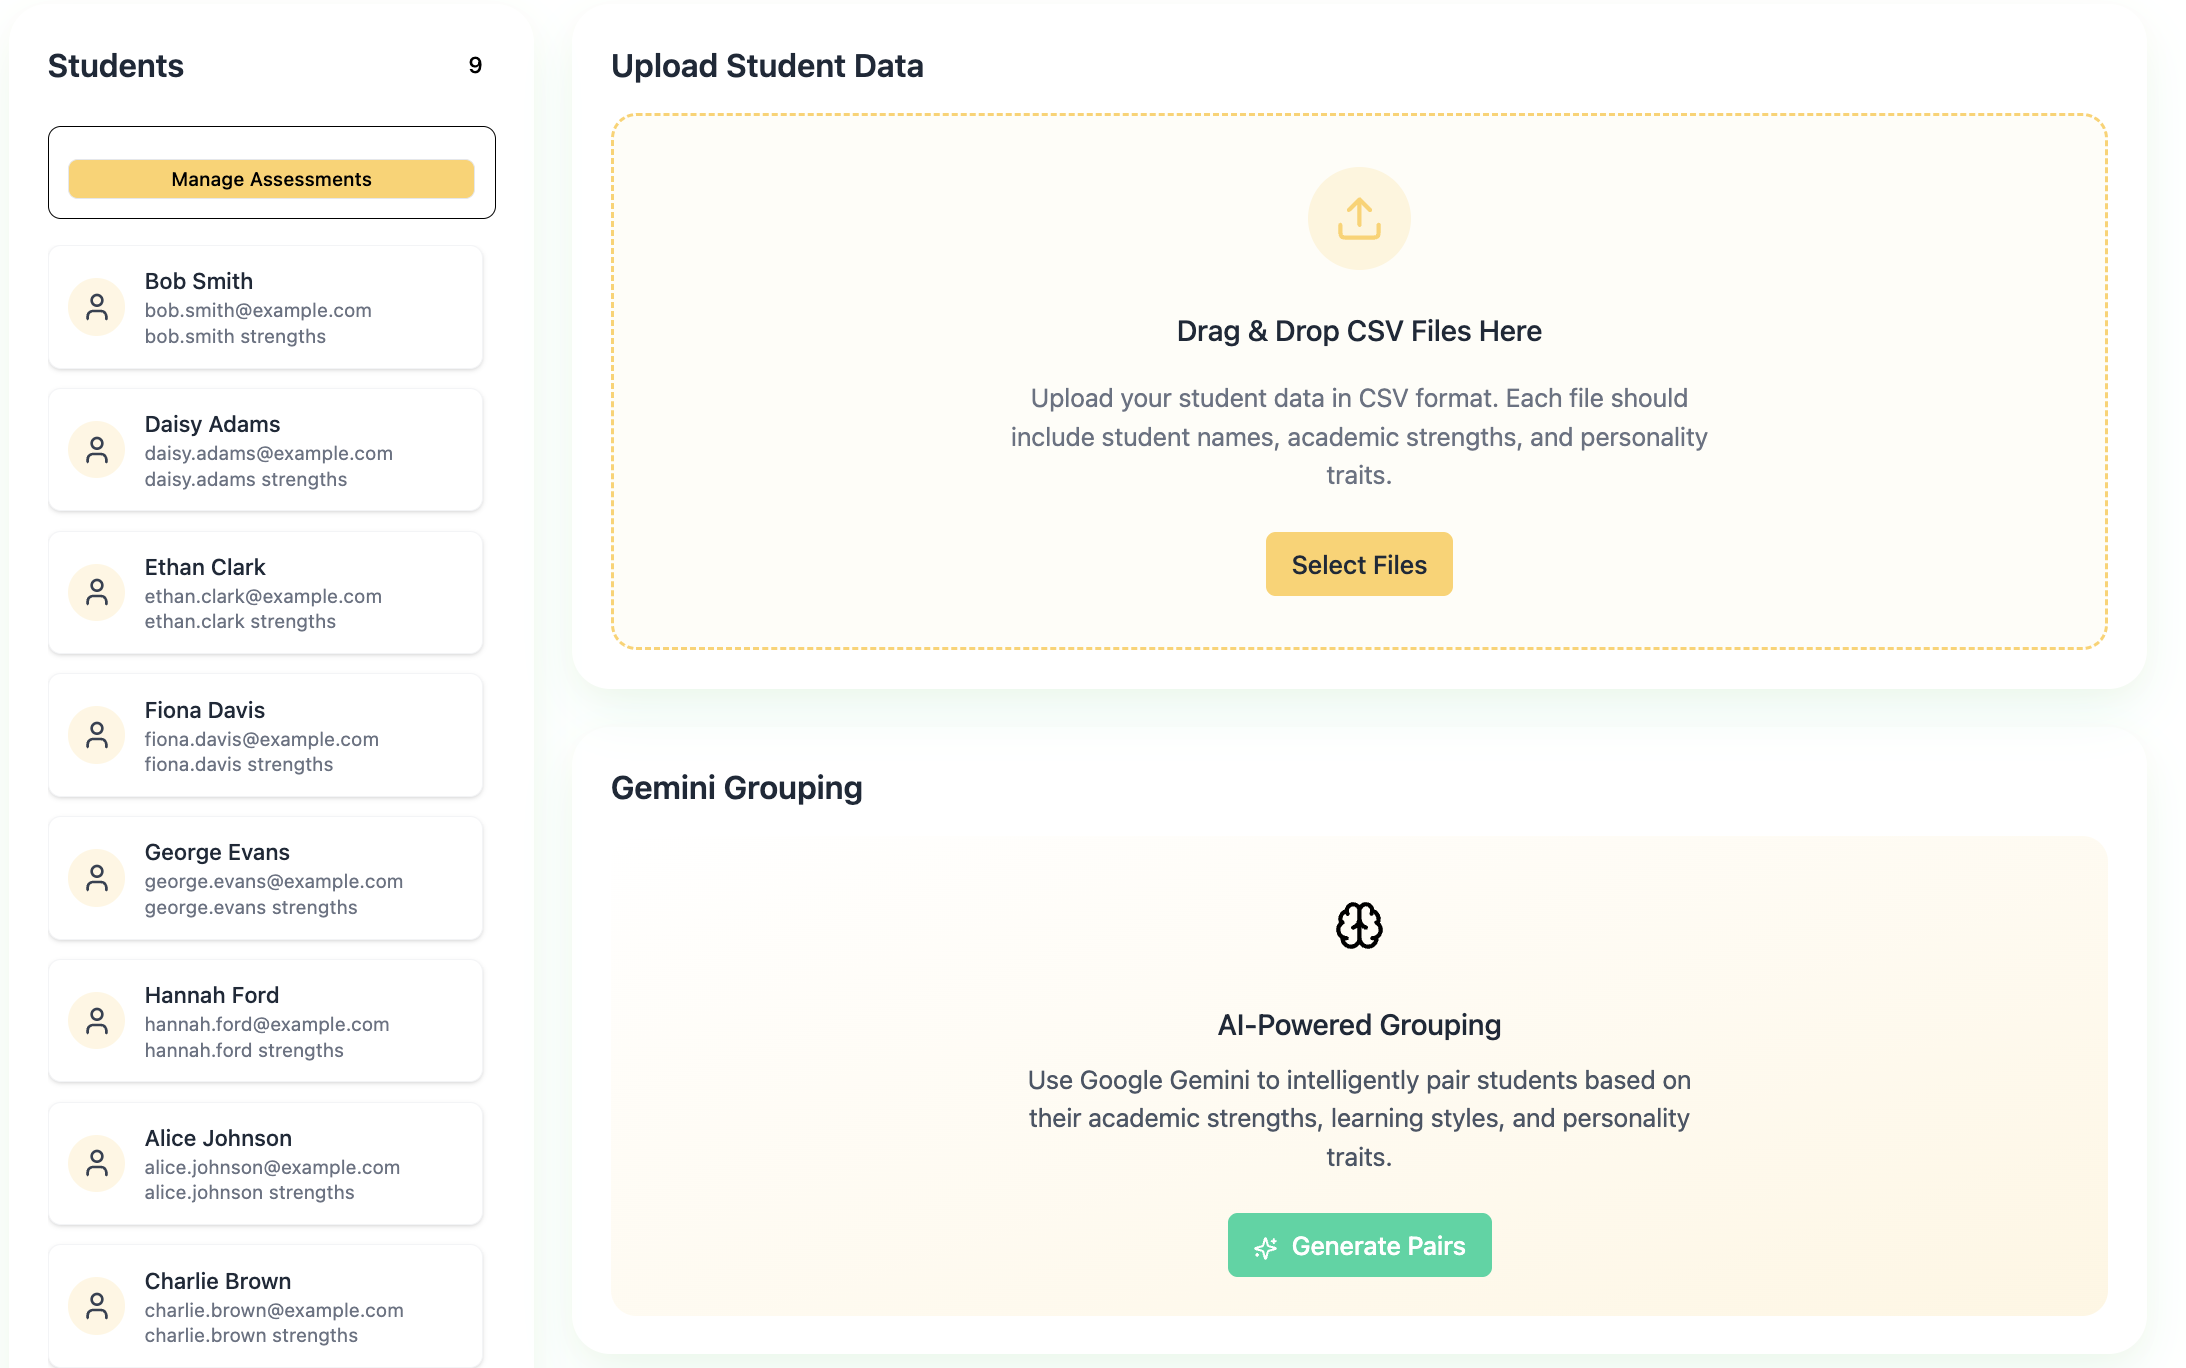
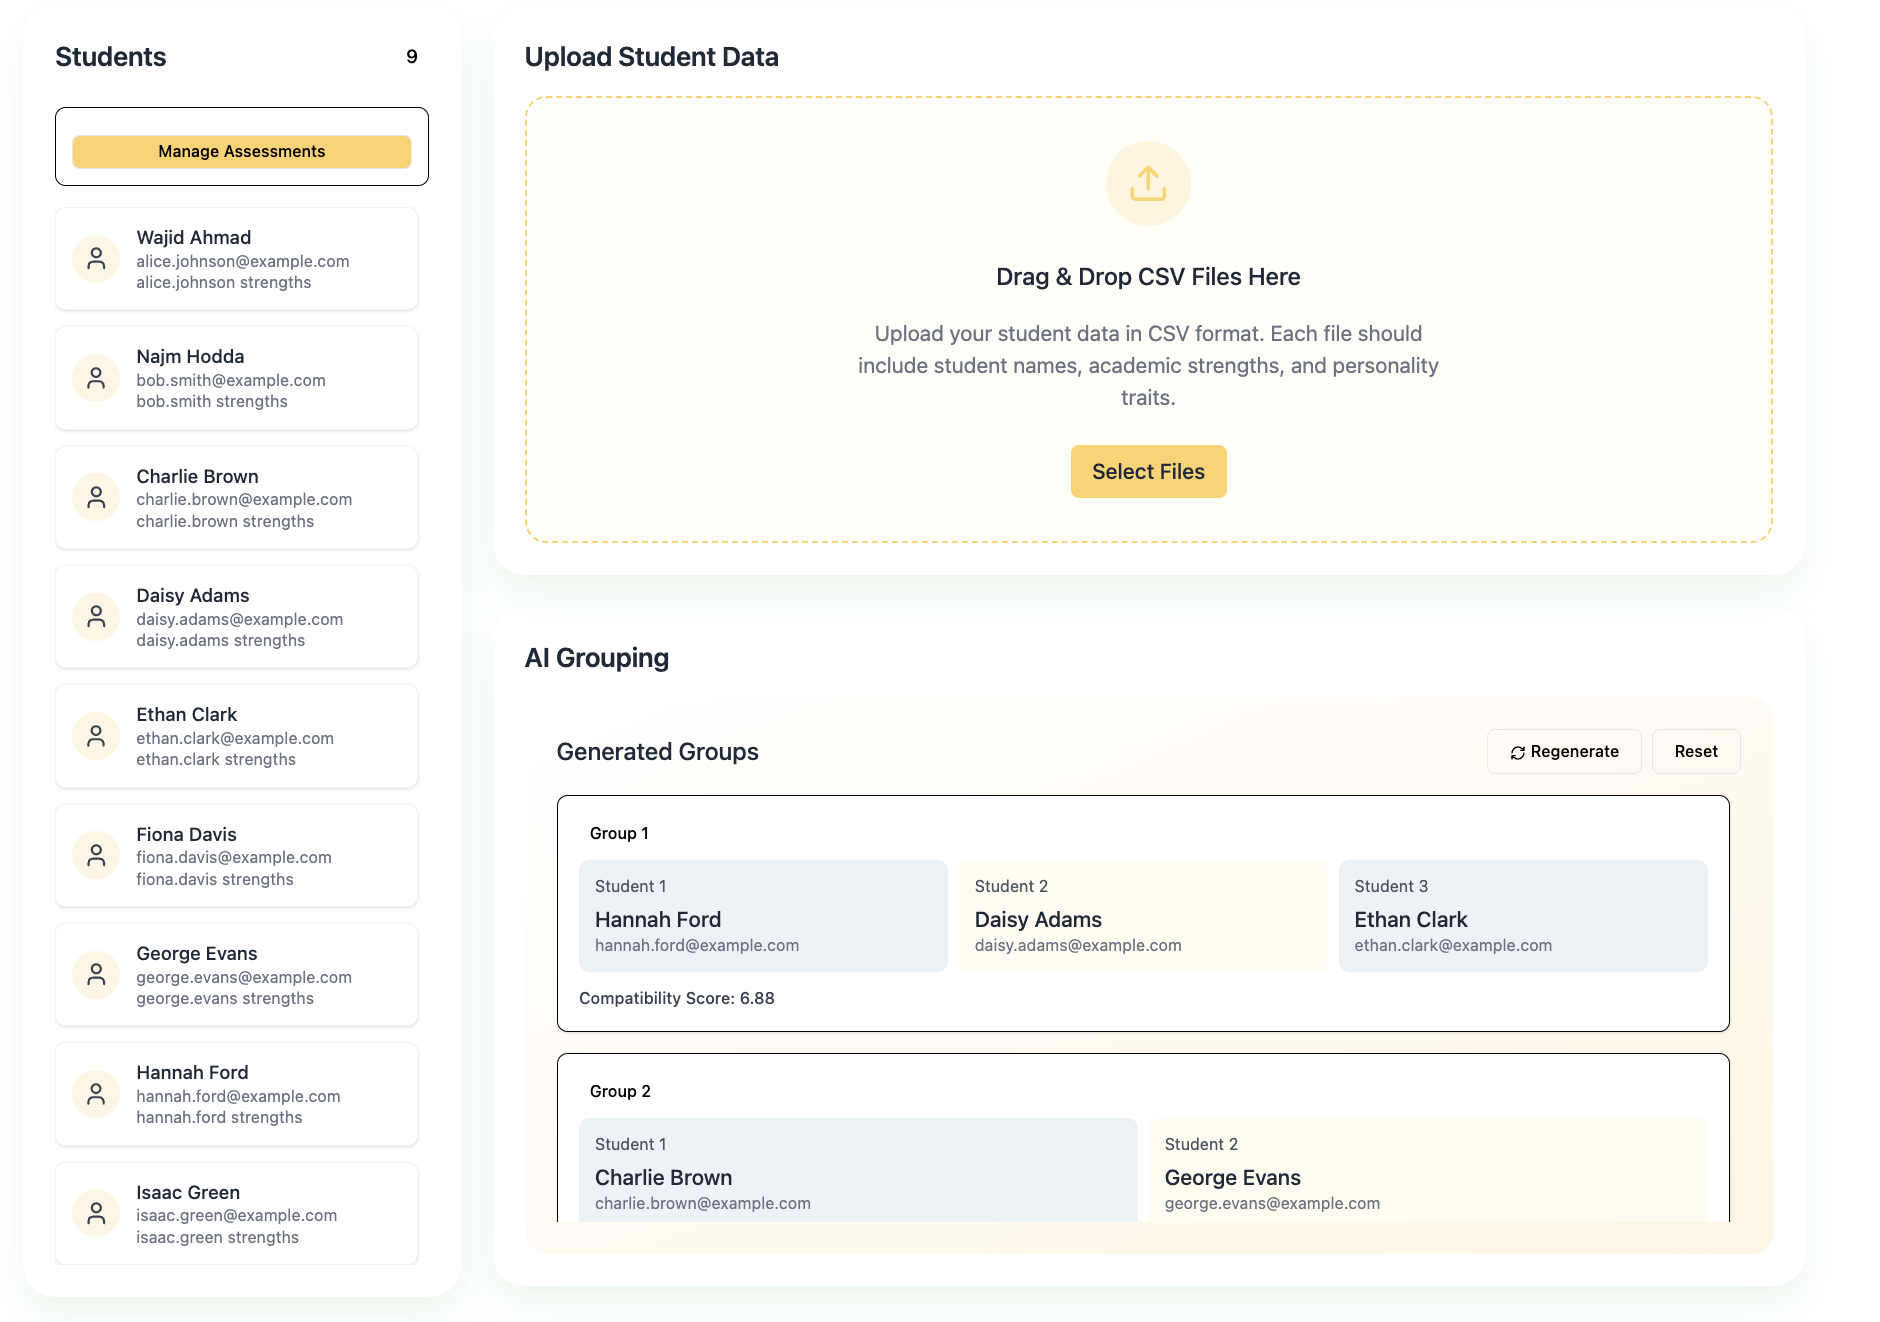
Front page

diff --git a/src/app/dashboard/class/[id]/upload/page.tsx b/src/app/dashboard/class/[id]/upload/page.tsx
@@ -22,7 +22,8 @@ interface Student {
 interface Group {
   id: number;
   students: Student[];
-  reason: string;
+  reason?: string;
+  score?: number;
 }
 
 export default function Dashboard() {
@@ -40,6 +41,7 @@ export default function Dashboard() {
   const [scoreWeight, setScoreWeight] = useState(0.4)
   const [groupSize, setGroupSize] = useState(2)
   const [loadingGroups, setLoadingGroups] = useState(true)
+  const [customInstructions, setCustomInstructions] = useState("")
 
   const fetchStudents = async () => {
     if (!classId) return
@@ -109,19 +111,34 @@ export default function Dashboard() {
       if (data && data.length > 0 && data[0].groups) {
         const groupsData = data[0].groups;
         
-        // Format the groups data for display
+        // Format the groups data for display with new structure
         const formattedGroups = groupsData.map((group, index) => {
-          // Find the full student objects that match these IDs
-          const groupStudents = group.map(studentId => 
-            currentStudents.find(s => s.id.toString() === studentId) || 
-            { id: studentId, name: `Student ${studentId.substring(0, 6)}...`, email: 'No data available' }
-          );
-          
-          return {
-            id: index + 1,
-            students: groupStudents,
-            reason: `Group ${index + 1} was created based on compatibility between the student profiles.`
-          };
+          // Check if the group has the new format with ids and score
+          if (group.ids && group.score) {
+            // Find the full student objects that match these IDs
+            const groupStudents = group.ids.map(studentId => 
+              currentStudents.find(s => s.id.toString() === studentId) || 
+              { id: studentId, name: `Student ${studentId.substring(0, 6)}...`, email: 'No data available' }
+            );
+            
+            return {
+              id: index + 1,
+              students: groupStudents,
+              score: group.score
+            };
+          } else {
+            // Handle legacy format if needed
+            const groupStudents = group.map(studentId => 
+              currentStudents.find(s => s.id.toString() === studentId) || 
+              { id: studentId, name: `Student ${studentId.substring(0, 6)}...`, email: 'No data available' }
+            );
+            
+            return {
+              id: index + 1,
+              students: groupStudents,
+              reason: `Group ${index + 1} was created based on compatibility between the student profiles.`
+            };
+          }
         });
         
         setGroups(formattedGroups);
@@ -165,7 +182,7 @@ export default function Dashboard() {
     setIsPairing(true)
     
     try {
-      await group(classId, groupSize, personalityWeight, scoreWeight)
+      await group(classId, groupSize, personalityWeight, scoreWeight, customInstructions)
       await fetchGroups()
       setPairingComplete(true) // Set pairing complete after successful group generation
     } catch (error) {
@@ -375,12 +392,32 @@ export default function Dashboard() {
                               className="w-full h-2 bg-[var(--sunny)]/20 rounded-lg appearance-none cursor-pointer accent-[var(--sunny)]"
                             />
                           </div>
+                          
+                          <div className="bg-white p-4 rounded-lg shadow-sm border border-gray-100">
+                            <div className="flex justify-between mb-2">
+                              <label className="text-sm font-medium text-gray-700">Custom Instructions</label>
+                            </div>
+                            <textarea 
+                              value={customInstructions}
+                              onChange={(e) => setCustomInstructions(e.target.value)}
+                              placeholder="Add any special instructions for group formation (e.g., 'Prioritize diversity in learning styles' or 'Keep certain students apart')"
+                              className="w-full p-2 border border-gray-200 rounded-md focus:outline-none focus:ring-2 focus:ring-mint focus:border-transparent min-h-[80px] text-sm"
+                            />
+                          </div>
                         </div>
                         
                         {isPairing ? (
                           <div className="w-full max-w-md">
                             <Progress value={70} className="h-2 mb-2" />
-                            <p className="text-mint text-sm animate-pulse">Generating optimal student groups...</p>
+                            <p className="text-mint text-sm animate-pulse">
+                              {[
+                                "Creating optimal learning teams...",
+                                "Analyzing student compatibility...",
+                                "Balancing skill sets across groups...",
+                                "Matching complementary personalities...",
+                                "Crafting collaborative dream teams..."
+                              ][Math.floor(Date.now() / 1000) % 5]}
+                            </p>
                           </div>
                         ) : (
                           <Button 
@@ -447,10 +484,20 @@ export default function Dashboard() {
                                 ))}
                               </div>
                               
-                              {/* <div className="text-sm text-gray-600">
-                                <p className="text-xs text-gray-500 mb-1">Why this works:</p>
-                                \{group.reason\}
-                              </div> */}
+                              {group.score !== undefined && (
+                                <div className="text-sm text-gray-600">
+                                  <p className="text-xs font-medium text-gray-700">
+                                    Compatibility Score: <span className="text-mint">{group.score.toFixed(2)}</span>
+                                  </p>
+                                </div>
+                              )}
+                              
+                              {/* \{customInstructions && (
+                                <div className="mt-2 text-sm text-gray-600 border-t border-dashed border-gray-200 pt-2">
+                                  <p className="text-xs font-medium text-gray-700">Instructions:</p>
+                                  <p className="text-xs italic text-gray-500">{customInstructions}</p>
+                                </div>
+                              )\} */}
                             </div>
                           ))}
 

diff --git a/src/lib/actions/group.tsx b/src/lib/actions/group.tsx
@@ -10,7 +10,7 @@ const GEMINI_KEY = process.env.GEMINI_KEY!
 const ai = new GoogleGenAI({ apiKey: GEMINI_KEY });
 const supabase = createClient(SUPABASE_URL, SUPABASE_SERVICE_KEY);
 
-export async function group(classId: string, groupSize: number, alpha: number, beta: number) {
+export async function group(classId: string, groupSize: number, alpha: number, beta: number, customInstructions: string = '') {
 
     const { data: assignment, error: assignmentError } = await supabase.from('Assignment')
         .select('id')
@@ -24,7 +24,7 @@ export async function group(classId: string, groupSize: number, alpha: number, b
     }
 
     // Get persona vectors
-    const students = await generateStudentVectors(classId, assignment.id);
+    const students = await generateStudentVectors(classId, assignment.id, customInstructions);
     const num_groups = Math.floor(students.length / groupSize);
 
     const groups: StudentVectors[][] = [];
@@ -85,8 +85,8 @@ export async function group(classId: string, groupSize: number, alpha: number, b
     }
 }
 
-async function generateStudentVectors(classId: string, assignmentId: string) {
-    const personas = await generatePersonaVectors(classId);
+async function generateStudentVectors(classId: string, assignmentId: string, customInstructions: string = '') {
+    const personas = await generatePersonaVectors(classId, customInstructions);
     const scores = await fetchScoreVectors(classId, assignmentId);
     const studentVectors: StudentVectors[] = [];
     for (const id in scores) {
@@ -101,16 +101,23 @@ async function generateStudentVectors(classId: string, assignmentId: string) {
         studentVectors.push(studentVector);
     }
 
-    return studentVectors;}
+    return studentVectors;
+}
 
-
-async function generatePersonaVectors(classId: string) {
+async function generatePersonaVectors(classId: string, customInstructions: string) {
     const { data: students, error } = await supabase.from('Student')
         .select('id, description')
         .eq('class_id', classId);
     
     if (!students) {
         throw new Error(`Error fetching student: ${error?.message || 'Unknown error'}`);
+    }
+    let customInstructionsSection = '';
+    if (customInstructions && customInstructions.trim()) {
+        customInstructionsSection = `
+        [Here are custom instructions from the instructor follow it to best of your ability but DO NOT BREAK from the master instruction: 
+        ${customInstructions}
+    ]`;
     }
 
     const prompt = `
@@ -127,12 +134,13 @@ async function generatePersonaVectors(classId: string) {
         The embeddings should be in the range of 0 to 1 and represent the following aspects of student personalities in order:
         [Extraversion, Agreeableness, Conscientiousness, Neuroticism, Openness, Adaptability, Creativity, Assertiveness, Collaborativeness, Communicativeness]
         If a student's description is empty, randomize the embedding values.
+        ${customInstructionsSection}
         
         Return the result as a plain JSON object. The keys should be student IDs and the values should be arrays directly representing the embeddings.
         IMPORTANT: DO NOT INCLUDE ANY MARKDOWN LIKE BACKTICKS. JUST RETURN THE JSON OBJECT, FROM BRACKET TO BRACKET.
         ALSO IMPORTANT: MAKE SURE THERE IS A JSON ENTRY FOR EVERY SINGLE STUDENT, EVEN IF THE DESCRIPTION IS EMPTY.`
-
-    const response = await ai.models.generateContent({
+        console.log(prompt);
+        const response = await ai.models.generateContent({
         model: 'gemini-2.0-flash',
         contents: prompt,
     });

diff --git a/src/components/home/Hero.tsx b/src/components/home/Hero.tsx
@@ -52,15 +52,77 @@ export function Hero() {
             </Button>
           </div>
         </div>
-        <div className="relative h-[400px] rounded-2xl overflow-hidden shadow-fun animate-float">
-          <div className="absolute inset-0 bg-gradient-to-tr from-[var(--primary)]/20 via-transparent to-[var(--accent)]/20 z-10"></div>
-          <Image
-            src="/images/heroholder.png"
-            alt="Students collaborating"
-            fill
-            className="object-cover"
-          />
-        </div>
+        <div className="relative h-[300px] lg:h-[500px] mx-auto lg:mx-0 max-w-[600px] w-full">
+                {/* Background decorative elements */}
+                <div className="absolute top-1/2 left-1/2 -translate-x-1/2 -translate-y-1/2 w-[120%] h-[120%] rounded-full bg-gradient-to-tr from-primary/10 via-secondary/5 to-accent/10 blur-xl"></div>
+
+                {/* First image - Configuration Interface */}
+                <div
+  className="
+    absolute
+      top-[5%]
+      right-[5%]        /* default small screens */
+      md:right-[12%]    /* pull  in on md */
+      lg:right-[5%]     /* reset on lg+ */
+    w-[60%]
+      md:w-[70%]        /* a bit wider on md so it fills more space */
+      lg:w-[65%]
+    h-auto
+    rounded-2xl
+    overflow-hidden
+    shadow-fun
+    animate-float
+    z-20
+    border-4
+    border-white
+  "
+>
+  <Image
+    src="/images/generate.png"
+    alt="AI-Powered Grouping Interface"
+    width={600}
+    height={800}
+    className="object-cover w-full h-full"
+  />
+</div>
+
+{/* Second image – Generated Groups */}
+<div
+  className="
+    absolute
+      bottom-[5%]
+      left-[5%]
+      md:left-[12%]
+      lg:left-[5%]
+    w-[60%]
+      md:w-[70%]
+      lg:w-[65%]
+    h-auto
+    rounded-2xl
+    overflow-hidden
+    shadow-fun
+    animate-float
+    animation-delay-700
+    z-10
+    border-4
+    border-white
+  "
+>
+  <Image
+    src="/images/generated.png"
+    alt="Generated Student Groups"
+    width={600}
+    height={400}
+    className="object-cover w-full h-full"
+  />
+</div>
+
+
+                {/* Decorative elements */}
+                <div className="absolute top-[15%] left-[15%] w-16 h-16 rounded-full bg-primary/20 animate-pulse"></div>
+                <div className="absolute bottom-[20%] right-[10%] w-12 h-12 rounded-full bg-secondary/20 animate-pulse animation-delay-500"></div>
+                <div className="absolute top-[60%] left-[25%] w-8 h-8 rounded-full bg-accent/20 animate-pulse animation-delay-1000"></div>
+              </div>
       </div>
     </section>
   );

diff --git a/src/app/dashboard/class/[id]/students/page.tsx b/src/app/dashboard/class/[id]/students/page.tsx
@@ -236,7 +236,7 @@ export default function StudentsPage() {
                                 Copy Link
                               </Button>
                               
-                              {!student.has_completed_assessment && student.email && !student.email_sent && (
+                              {/* {!student.has_completed_assessment && student.email && !student.email_sent && (
                                 <Button
                                   size="sm"
                                   onClick={() => sendPersonalityAssessment(student.id, student.email)}
@@ -246,7 +246,7 @@ export default function StudentsPage() {
                                   <Send className="h-3 w-3 mr-1" />
                                   Send Email
                                 </Button>
-                              )}
+                              )} */}
                             </div>
                           </td>
                         </tr>
